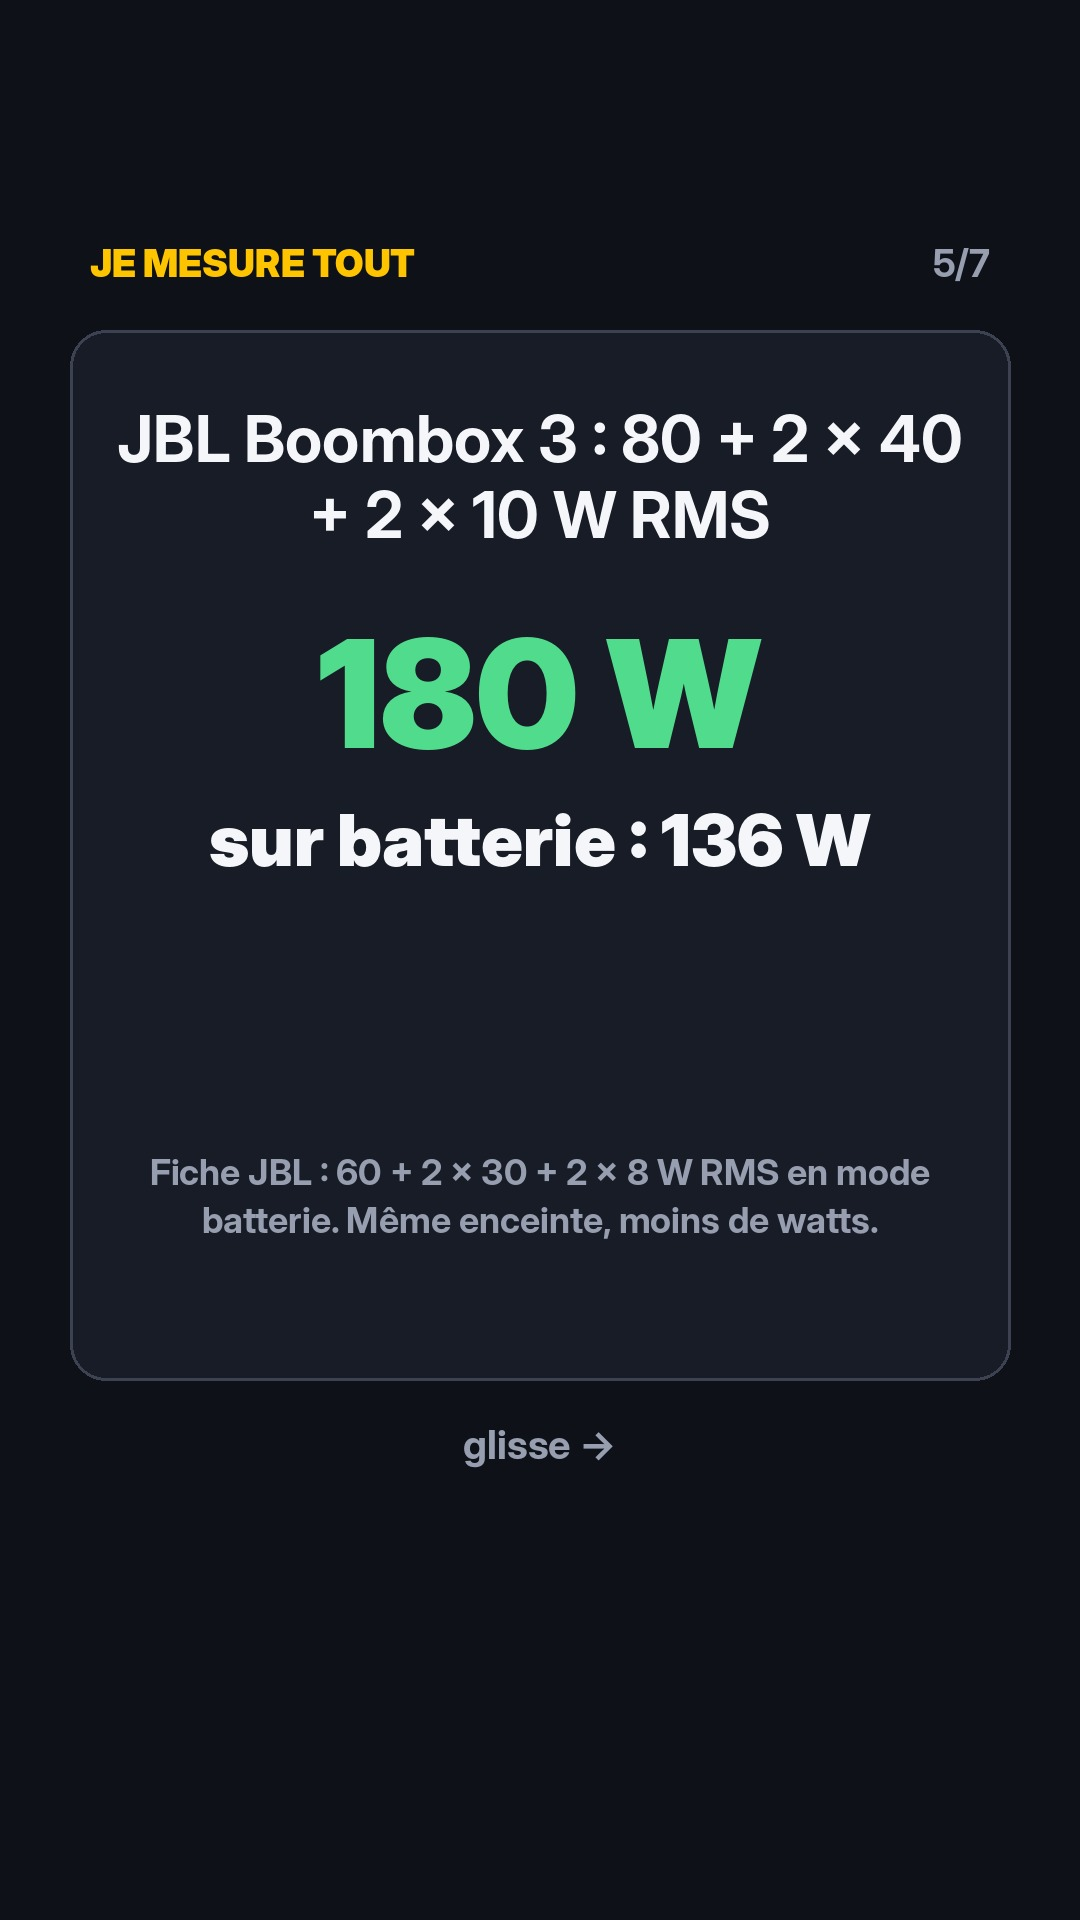
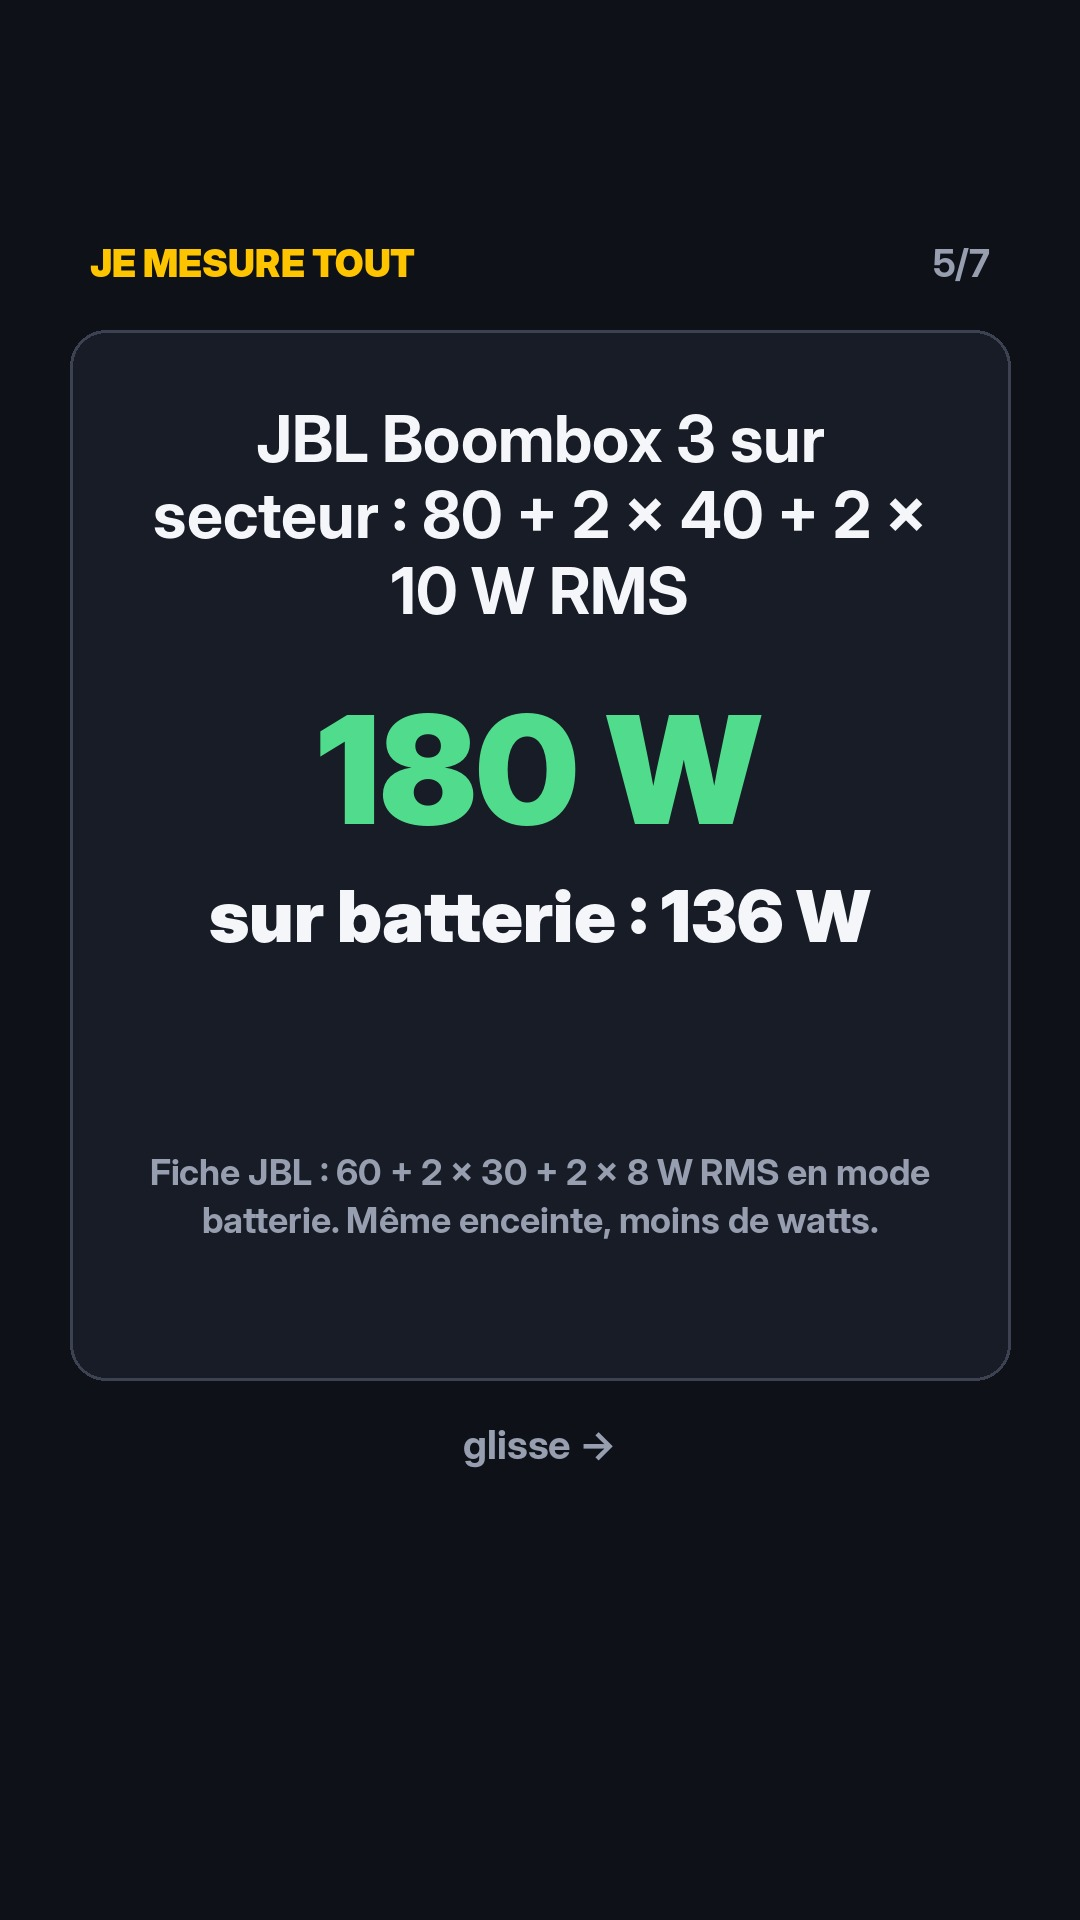
Carrousels 76 et 77 corrigés après contrôle (zones sûres, formulations)

Changed region(s): [[0.1222, 0.2188, 0.8861, 0.5]]

diff --git a/autopilot/tools/carousel77.py b/autopilot/tools/carousel77.py
@@ -15,7 +15,7 @@ def wrap(d,txt,font,maxw):
         if d.textlength(t,font=font)<=maxw: cur=t
         else: lines.append(cur); cur=w
     lines.append(cur); return lines
-def block(d,y,txt,font,fill,maxw=880,gap=12):
+def block(d,y,txt,font,fill,maxw=800,gap=12):
     for ln in wrap(d,txt,font,maxw):
         w=d.textlength(ln,font=font); d.text(((W-w)/2,y),ln,font=font,fill=fill); y+=font.size+gap
     return y
@@ -40,8 +40,8 @@ def save(im,i): im.save(f'{out}/slide{i}.jpg',quality=92)
 # 1 : objet + question
 im=bg(); d=ImageDraw.Draw(im); head(d,1)
 purifier(d,W//2,560,1.0)
-y=block(d,840,'Ton purificateur « 50 m² » :',f('InterDisplay-Bold.otf',66),WH)
-y=block(d,y+20,'AVEC COMBIEN DE RENOUVELLEMENTS D\'AIR ?',f('InterDisplay-Black.otf',92),ACC,gap=6)
+y=block(d,840,'Ton purificateur « 50 m² »',f('InterDisplay-Bold.otf',66),WH)
+y=block(d,y+20,'COMBIEN DE RENOUVELLEMENTS D\'AIR ?',f('InterDisplay-Black.otf',78),ACC,gap=6)
 block(d,y+30,'Notice Levoit · livre blanc AHAM',f('InterDisplay-Bold.otf',36),GR)
 swipe(d); save(im,1)
 
@@ -50,19 +50,19 @@ def slide(i,top,big,bigcol,sub,note):
     y=block(d,400,top,f('InterDisplay-Bold.otf',64),WH)
     y=block(d,y+50,big,f('InterDisplay-Black.otf',150),bigcol,gap=4)
     if sub: y=block(d,y+40,sub,f('InterDisplay-Black.otf',72),WH)
-    block(d,max(y+60,1150),note,f('InterDisplay-Bold.otf',36),GR,maxw=820)
+    block(d,max(y+60,1150),note,f('InterDisplay-Bold.otf',36),GR,maxw=800)
     swipe(d); save(im,i)
-slide(2,'Levoit Core 300S : débit d\'air propre (CADR)','240 m³/h',ACC,'surface de la boîte : 50 m²','Notice utilisateur Levoit Core 300S.')
+slide(2,'Levoit Core 300S : débit d\'air propre (CADR)','240 m³/h',ACC,'surface annoncée : 50 m²','Notice utilisateur Levoit Core 300S.')
 slide(3,'Petite ligne de la notice : la surface est calculée pour','2',RED,'renouvellements par heure','« Ideal Room Size is based on 2 air changes per hour », plafond de 2,4 m.')
 slide(4,'Le calcul : CADR ÷ hauteur ÷ renouvellements','50 m²',ACC,'240 ÷ 2,4 ÷ 2','Formule générale : renouvellements = débit ÷ volume de la pièce.')
-slide(5,'L\'AHAM (fabricants d\'électroménager, USA) vise 4,8 renouvellements','≈ 21 m²',GRN,'240 ÷ 2,4 ÷ 4,8','Livre blanc AHAM 2025 : « 4.8 eACH » dans la surface conseillée. Calcul refait : 20,8 m².')
-slide(6,'Surprise : l\'AHAM ne recommande pas de descendre sous','2,2',RED,'renouvellements','Livre blanc AHAM 2025. Les 50 m² de la boîte sont calculés à 2, en dessous.')
+slide(5,'L\'AHAM (fabricants d\'électroménager, USA) vise 4,8 renouvellements','≈ 21 m²',GRN,'240 ÷ 2,4 ÷ 4,8','Livre blanc AHAM (janv. 2026) : « 4.8 eACH » dans la surface conseillée. Calcul refait : 20,8 m².')
+slide(6,'Surprise : l\'AHAM ne recommande pas de descendre sous','2,2',RED,'renouvellements','Livre blanc AHAM (janv. 2026). Les 50 m² annoncés sont calculés à 2, en dessous (2,2 = logement très étanche).')
 # 7 verdict
 im=bg(); d=ImageDraw.Draw(im); head(d,7); card(d,330,1380)
 y=block(d,400,'VERDICT',f('InterDisplay-Black.otf',64),ACC)
 y=block(d,y+30,'« 50 m² » à 2 renouvellements, c\'est environ 21 m² à 4,8.',f('InterDisplay-Black.otf',70),WH,gap=10)
 y=block(d,y+50,'Avant d\'acheter : regarde le CADR en m³/h, pas les m².',f('InterDisplay-Bold.otf',54),GRN)
-block(d,y+40,'Ta surface ≈ CADR ÷ hauteur du plafond ÷ 4,8. Levoit précise que l\'appareil marche dans une pièce plus grande, mais plus lentement.',f('InterDisplay-Bold.otf',34),GR,maxw=820)
+block(d,y+40,'Ta surface ≈ CADR (m³/h) ÷ plafond (m) ÷ 4,8. Levoit : marche aussi plus grand, mais plus lentement.',f('InterDisplay-Bold.otf',36),GR,maxw=800)
 swipe(d); save(im,7)
 # 8 commentaires
 im=bg(); d=ImageDraw.Draw(im); head(d,8)

diff --git a/autopilot/tools/carousel76.py b/autopilot/tools/carousel76.py
@@ -15,7 +15,7 @@ def wrap(d,txt,font,maxw):
         if d.textlength(t,font=font)<=maxw: cur=t
         else: lines.append(cur); cur=w
     lines.append(cur); return lines
-def block(d,y,txt,font,fill,maxw=880,gap=12):
+def block(d,y,txt,font,fill,maxw=800,gap=12):
     for ln in wrap(d,txt,font,maxw):
         w=d.textlength(ln,font=font); d.text(((W-w)/2,y),ln,font=font,fill=fill); y+=font.size+gap
     return y
@@ -45,18 +45,18 @@ def slide(i,top,big,bigcol,sub,note):
     y=block(d,400,top,f('InterDisplay-Bold.otf',64),WH)
     y=block(d,y+50,big,f('InterDisplay-Black.otf',150),bigcol,gap=4)
     if sub: y=block(d,y+40,sub,f('InterDisplay-Black.otf',72),WH)
-    block(d,max(y+60,1150),note,f('InterDisplay-Bold.otf',36),GR,maxw=820)
+    block(d,max(y+60,1150),note,f('InterDisplay-Bold.otf',36),GR,maxw=800)
     swipe(d); save(im,i)
 slide(2,'Enceinte de sono JBL EON710 : puissance crête','1 300 W',RED,'un pic très bref','Fiche JBL (support Harman). Crête : « quelques millisecondes », selon le fabricant audio Cerwin-Vega.')
-slide(3,'La même, en puissance continue (RMS)','650 W',GRN,'pile la moitié','Fiche JBL EON710 : Power Rating Continuous 650 W, Peak 1 300 W.')
-slide(4,'Pire : un ampli annoncé «\u00a01\u00a0000\u00a0W\u00a0crête\u00a0»','≈ 250 W',RED,'RMS, peut-être','Exemple donné par le fabricant audio Cerwin-Vega (blog, 15.09.2025). Le rapport crête / RMS n\'est pas fixe.')
-slide(5,'JBL Boombox 3 : 80 + 2 × 40 + 2 × 10 W RMS','180 W',GRN,'sur batterie : 136 W','Fiche JBL : 60 + 2 × 30 + 2 × 8 W RMS en mode batterie. Même enceinte, moins de watts.')
+slide(3,'La même, en puissance continue','650 W',GRN,'pile la moitié','Fiche JBL EON710 : Power Rating Continuous 650 W, Peak 1 300 W.')
+slide(4,'Pire : un ampli annoncé «\u00a01\u00a0000\u00a0W\u00a0crête\u00a0»','250 W',RED,'RMS, peut-être','Exemple donné par le fabricant audio Cerwin-Vega (blog, 15.09.2025). Le rapport crête / RMS n\'est pas fixe.')
+slide(5,'JBL Boombox 3 sur secteur : 80 + 2 × 40 + 2 × 10 W RMS','180 W',GRN,'sur batterie : 136 W','Fiche JBL : 60 + 2 × 30 + 2 × 8 W RMS en mode batterie. Même enceinte, moins de watts.')
 # 6 verdict
 im=bg(); d=ImageDraw.Draw(im); head(d,6); card(d,330,1380)
 y=block(d,400,'VERDICT',f('InterDisplay-Black.otf',64),ACC)
-y=block(d,y+30,'«\u00a0100\u00a0W\u00a0» tout seul ne dit rien. Seuls les watts RMS (continus) se comparent.',f('InterDisplay-Black.otf',70),WH,gap=10)
+y=block(d,y+30,'«\u00a0100\u00a0W\u00a0» tout seul ne dit rien. Compare les watts RMS (continus), pas les watts crête.',f('InterDisplay-Black.otf',70),WH,gap=10)
 y=block(d,y+50,'Avant d\'acheter : cherche «\u00a0RMS\u00a0» ou «\u00a0continu\u00a0» sur la fiche.',f('InterDisplay-Bold.otf',54),GRN)
-block(d,y+40,'La norme IEC 60268-5 (2003, haut-parleurs passifs) distingue 4 puissances différentes.',f('InterDisplay-Bold.otf',34),GR,maxw=820)
+block(d,y+40,'La norme IEC 60268-5 (2003, haut-parleurs passifs) distingue 4 puissances différentes.',f('InterDisplay-Bold.otf',36),GR,maxw=800)
 swipe(d); save(im,6)
 # 7 commentaires
 im=bg(); d=ImageDraw.Draw(im); head(d,7)
